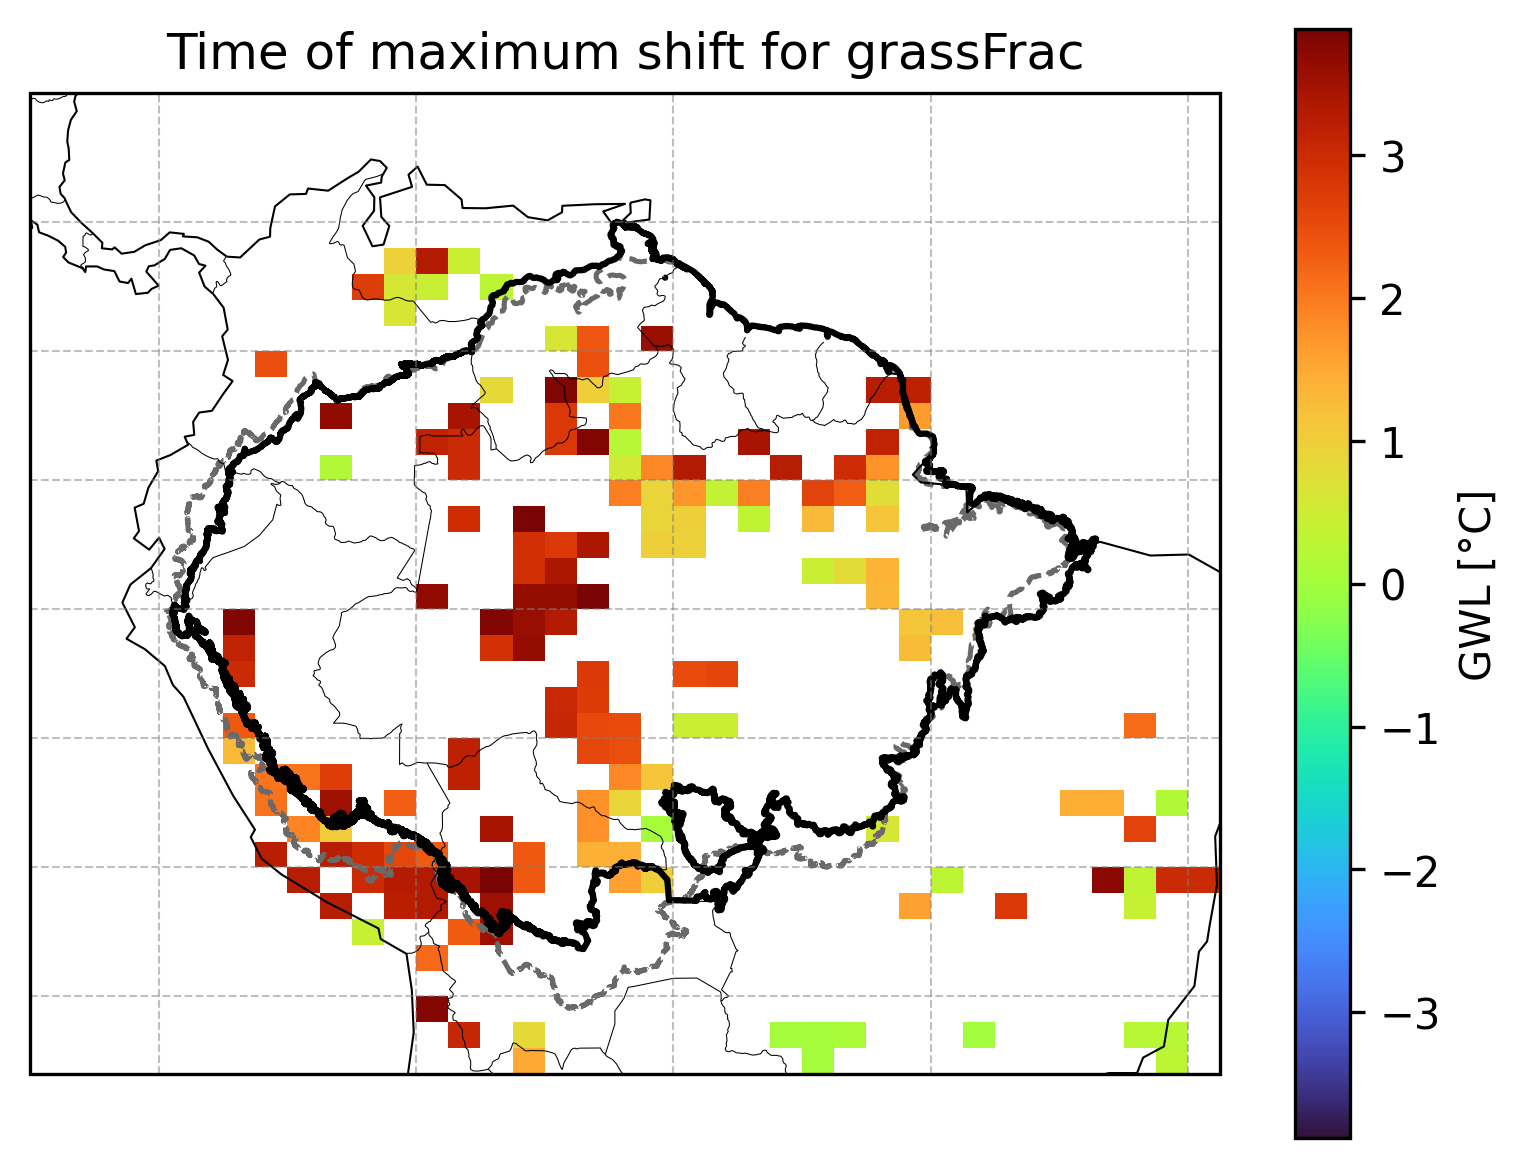
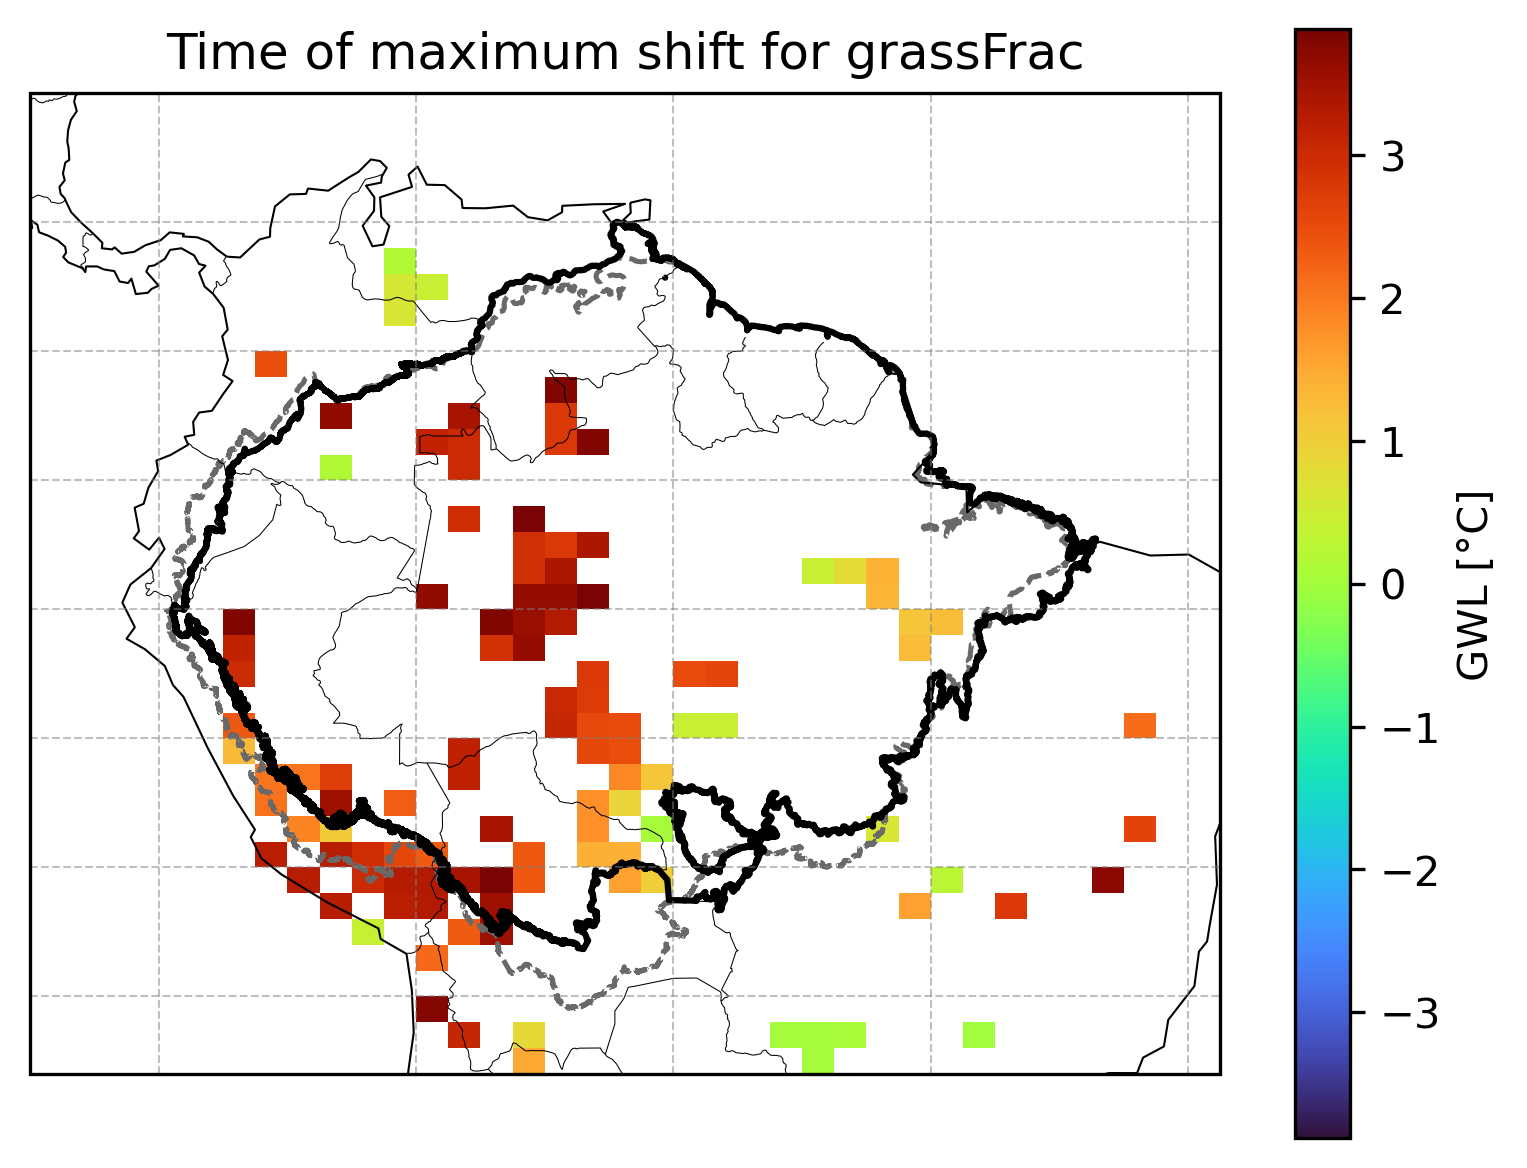
Fix the shift plot including direction

diff --git a/Amazon/toad_runner.py b/Amazon/toad_runner.py
@@ -286,7 +286,10 @@ def save_shift_results(td, shift_dir, run_config):
     plt.close()
 
     # 2. Time of maximum shift map
-    fig, ax = td.plot.time_of_max_shift_map(shift_threshold=run_config["shift_threshold"])
+    fig, ax = td.plot.time_of_max_shift_map(
+        shift_threshold=run_config["shift_threshold"],
+        shift_direction=run_config["shift_direction"],
+    )
     preprocess.draw_boundary_overlays(ax, lon_is_0_360=True, transform=ccrs.PlateCarree())
     plt.savefig(plot_dir / "02_time_of_max_shift_map.png", dpi=300, bbox_inches="tight")
     plt.close()
